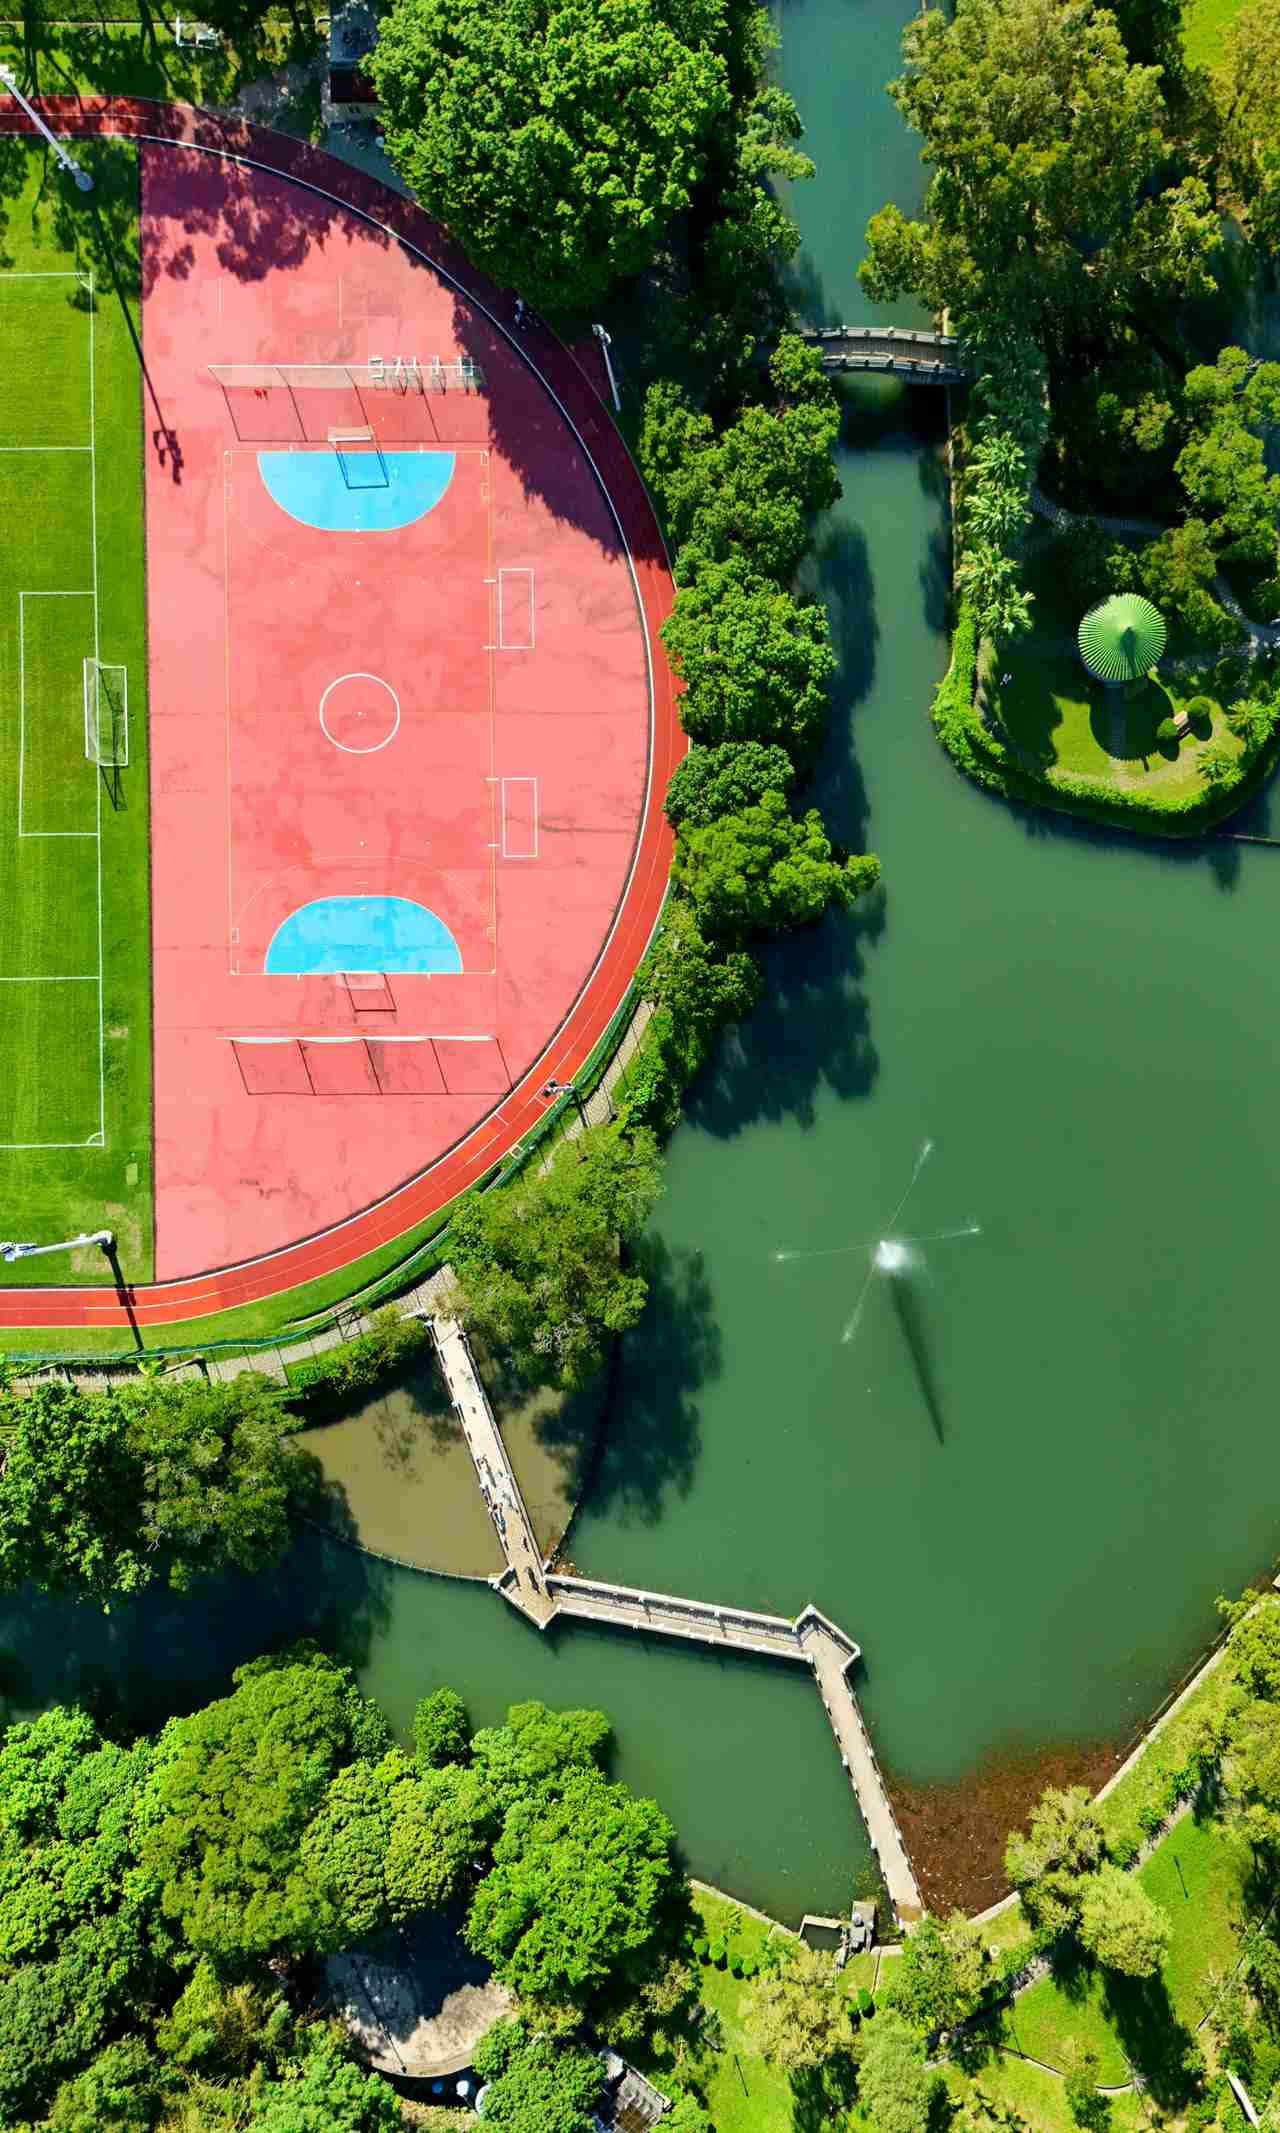
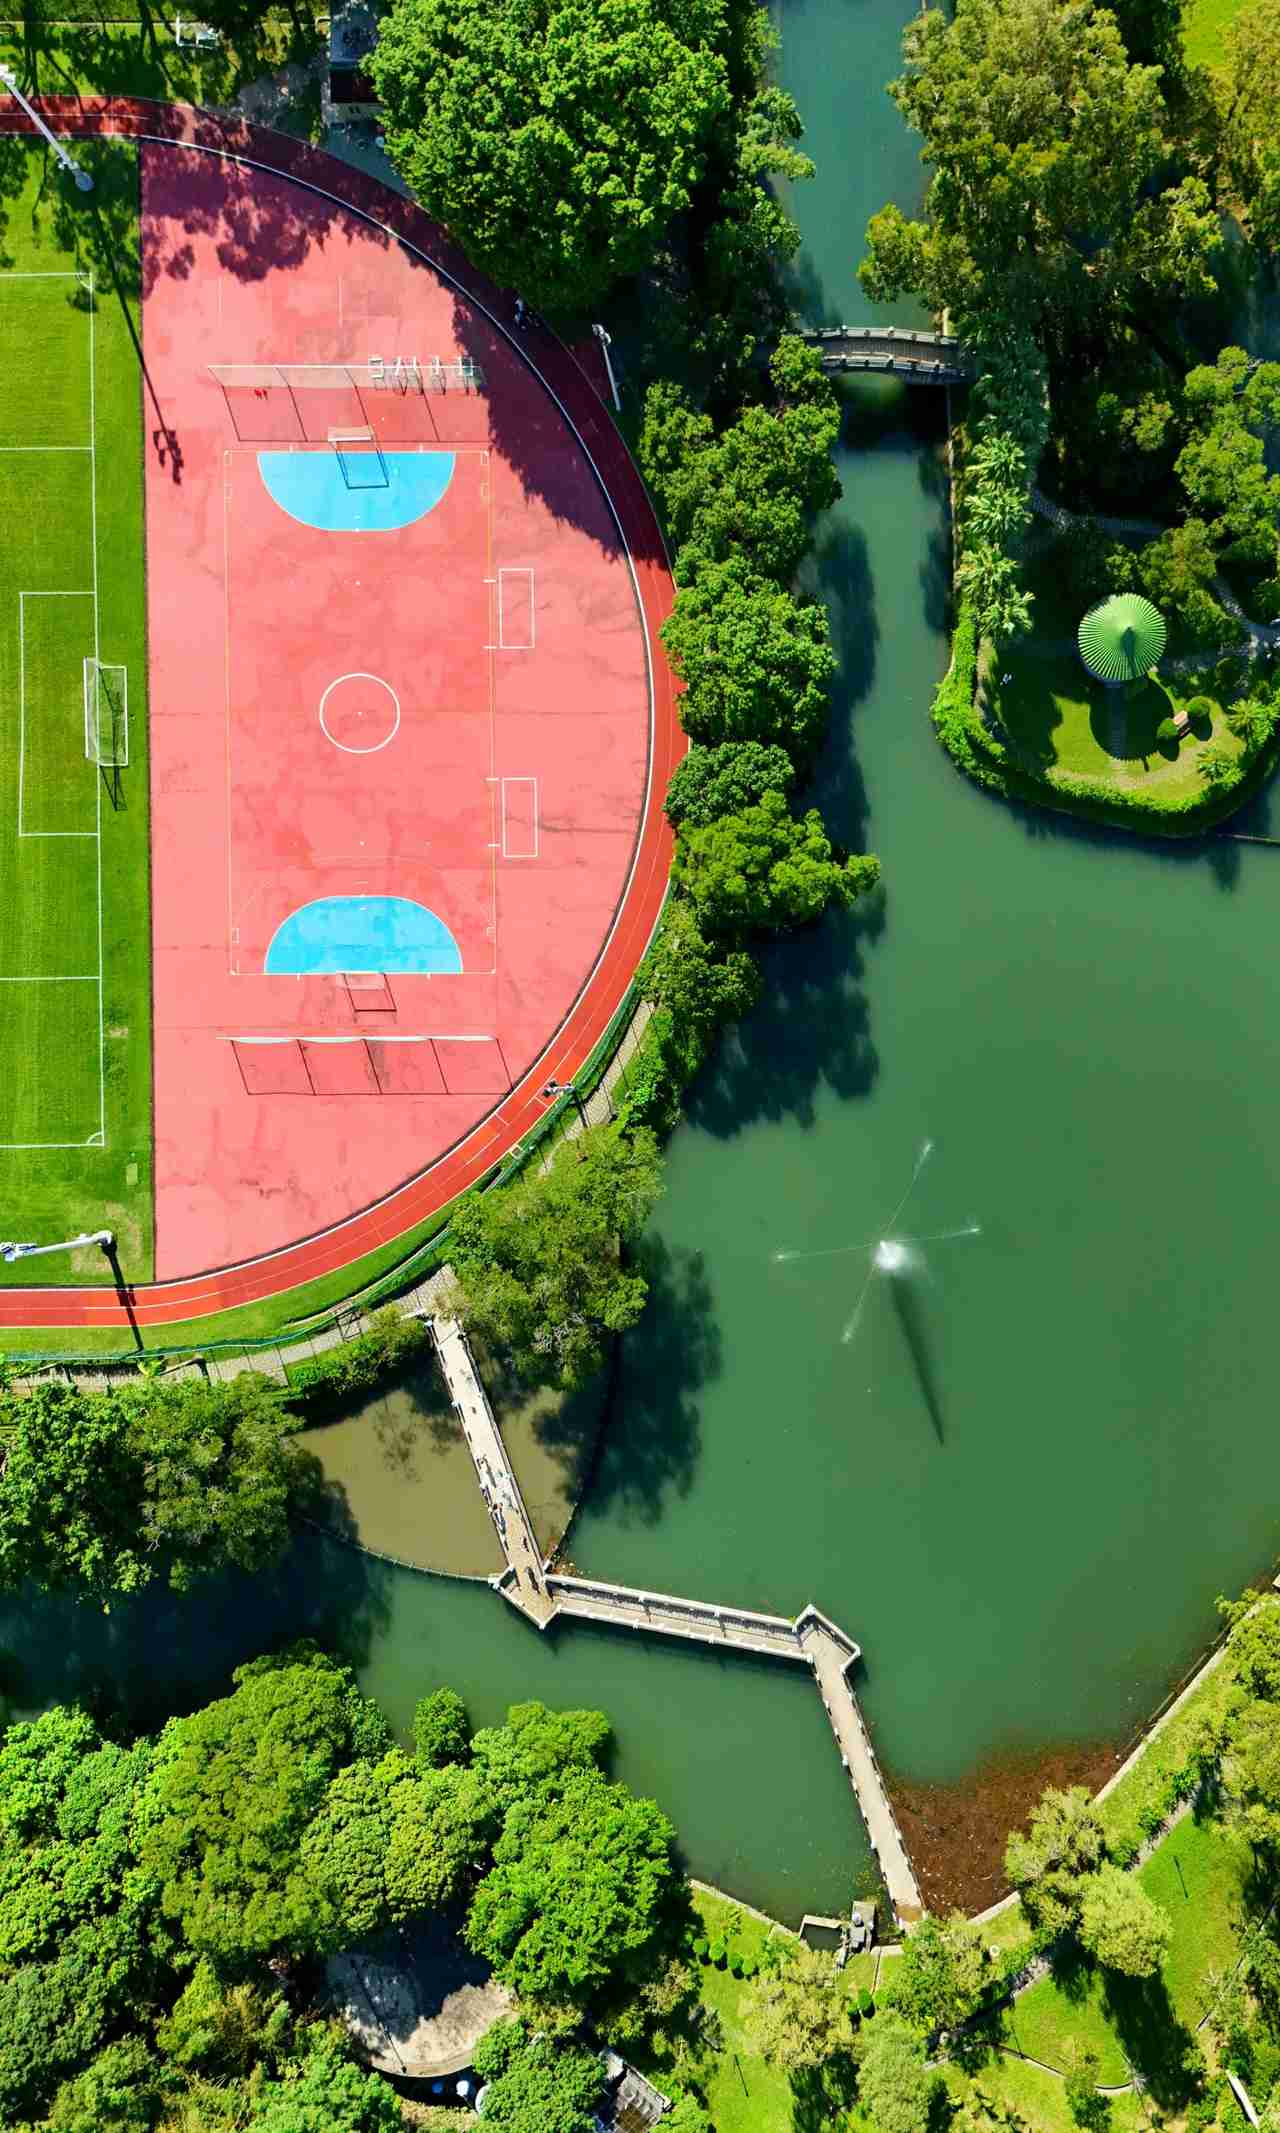
Add new photos from Xinjiang trip, amazing.

diff --git a/frontend/src/data/photos_src.ts b/frontend/src/data/photos_src.ts
@@ -441,14 +441,13 @@ const originalPhotos = [
     title: "Upstairs Residence",
     desc: "Hidden somewhere in the mountains.",
   },
-      {
+  {
     id: 66,
-    src: "/images/photos/habour_foggy.jpg",
-    low: "/images/low_quality/habour_foggy.jpg",
-    title: "Foggy Harbour",
-    desc: "Mystery habour.",
+    src: "/images/photos/環回北路夜景.jpg",
+    low: "/images/low_quality/環回北路夜景.jpg",
+    title: "Train",
+    desc: "My first long exposure photo.",
   },
-
   {
     id: 67,
     src: "/images/photos/神武門.jpg",
@@ -541,13 +540,13 @@ const originalPhotos = [
     desc: "Good night 🌃",
   },
   {
-    id: 66,
-    src: "/images/photos/環回北路夜景.jpg",
-    low: "/images/low_quality/環回北路夜景.jpg",
-    title: "Train",
-    desc: "My first long exposure photo.",
+    id: 80,
+    src: "/images/photos/habour_foggy.jpg",
+    low: "/images/low_quality/habour_foggy.jpg",
+    title: "Foggy Harbour",
+    desc: "Mystery habour.",
   },
-    {
+  {
     id: 81,
     src: "/images/photos/habour.jpg",
     low: "/images/low_quality/habour.jpg",
@@ -574,7 +573,63 @@ const originalPhotos = [
     low: "/images/low_quality/lake_ad_excellentiam.JPG",
     title: "Lake Ad Excellentiam",
     desc: "Aesthetic Lake",
-  }
+  },
+    {
+      id: 85,
+      src: "/images/photos/single_tree.jpg",
+      low: "/images/low_quality/single_tree.jpg",
+      title: "Single Tree",
+      desc: "Tough.",
+    },
+    {
+      id: 86,
+      src: "/images/photos/snowflask.jpg",
+      low: "/images/low_quality/snowflask.jpg",
+      title: "Snowing Tree",
+      desc: "Tranquil.",
+    },
+    {
+      id: 87,
+      src: "/images/photos/snowmountain_moon_forest.jpg",
+      low: "/images/low_quality/snowmountain_moon_forest.jpg",
+      title: "Moon Snow Mountain Forest",
+      desc: "From up to down, it is Xinjiang.",
+    },
+    {
+      id: 88,
+      src: "/images/photos/snowy_road.jpg",
+      low: "/images/low_quality/snowy_road.jpg",
+      title: "Snowy Road",
+      desc: "It's creamy.",
+    },
+    {
+      id: 89,
+      src: "/images/photos/snow_inifinit_road.jpg",
+      low: "/images/low_quality/snow_inifinit_road.jpg",
+      title: "The beginning of the road",
+      desc: "As though the road is infinite, but it is not.",
+    },
+    {
+      id: 90,
+      src: "/images/photos/sugong_tower_inside.jpg",
+      low: "/images/low_quality/sugong_tower_inside.jpg",
+      title: "Emin Minaret Inside",
+      desc: "An Islamic architecture in Turpan, Xinjiang.",
+    },
+    {
+      id: 91,
+      src: "/images/photos/the_tree.jpg",
+      low: "/images/low_quality/the_tree.jpg",
+      title: "The Tree",
+      desc: "Standing alone.",
+    },
+    {
+      id: 92,
+      src: "/images/photos/usman_in_sugong_smoke.jpg",
+      low: "/images/low_quality/usman_in_sugong_smoke.jpg",
+      title: "His Silhouette",
+      desc: "Figure seen from behind at the Emin Minaret.",
+    }
 ];
 
 export default originalPhotos;

diff --git a/frontend/scripts/image_resize.py b/frontend/scripts/image_resize.py
@@ -1,12 +1,19 @@
 from PIL import Image
 import os
 
-folder = r"photos"
-low_quality_folder = r"low_quality"
+SCRIPT_DIR = os.path.dirname(os.path.abspath(__file__))
+PUBLIC_DIR = os.path.normpath(os.path.join(SCRIPT_DIR, "..", "public"))
+
+folder = os.path.join(PUBLIC_DIR, "images", "photos")
+low_quality_folder = os.path.join(PUBLIC_DIR, "images", "low_quality")
+
 MAX_SIZE = int(1.5 * 1048576)  # 1.5MB for reduced image
 MAX_PIXELS = 10000000  # 10MP for reduced image
 LOW_QUALITY_TARGET = 200 * 1024  # 200KB for low quality preview
 LOW_QUALITY_WIDTH = 1280  # Max width for low quality
+
+if not os.path.isdir(folder):
+    raise FileNotFoundError(f"Photos folder not found: {folder}")
 
 os.makedirs(low_quality_folder, exist_ok=True)
 
